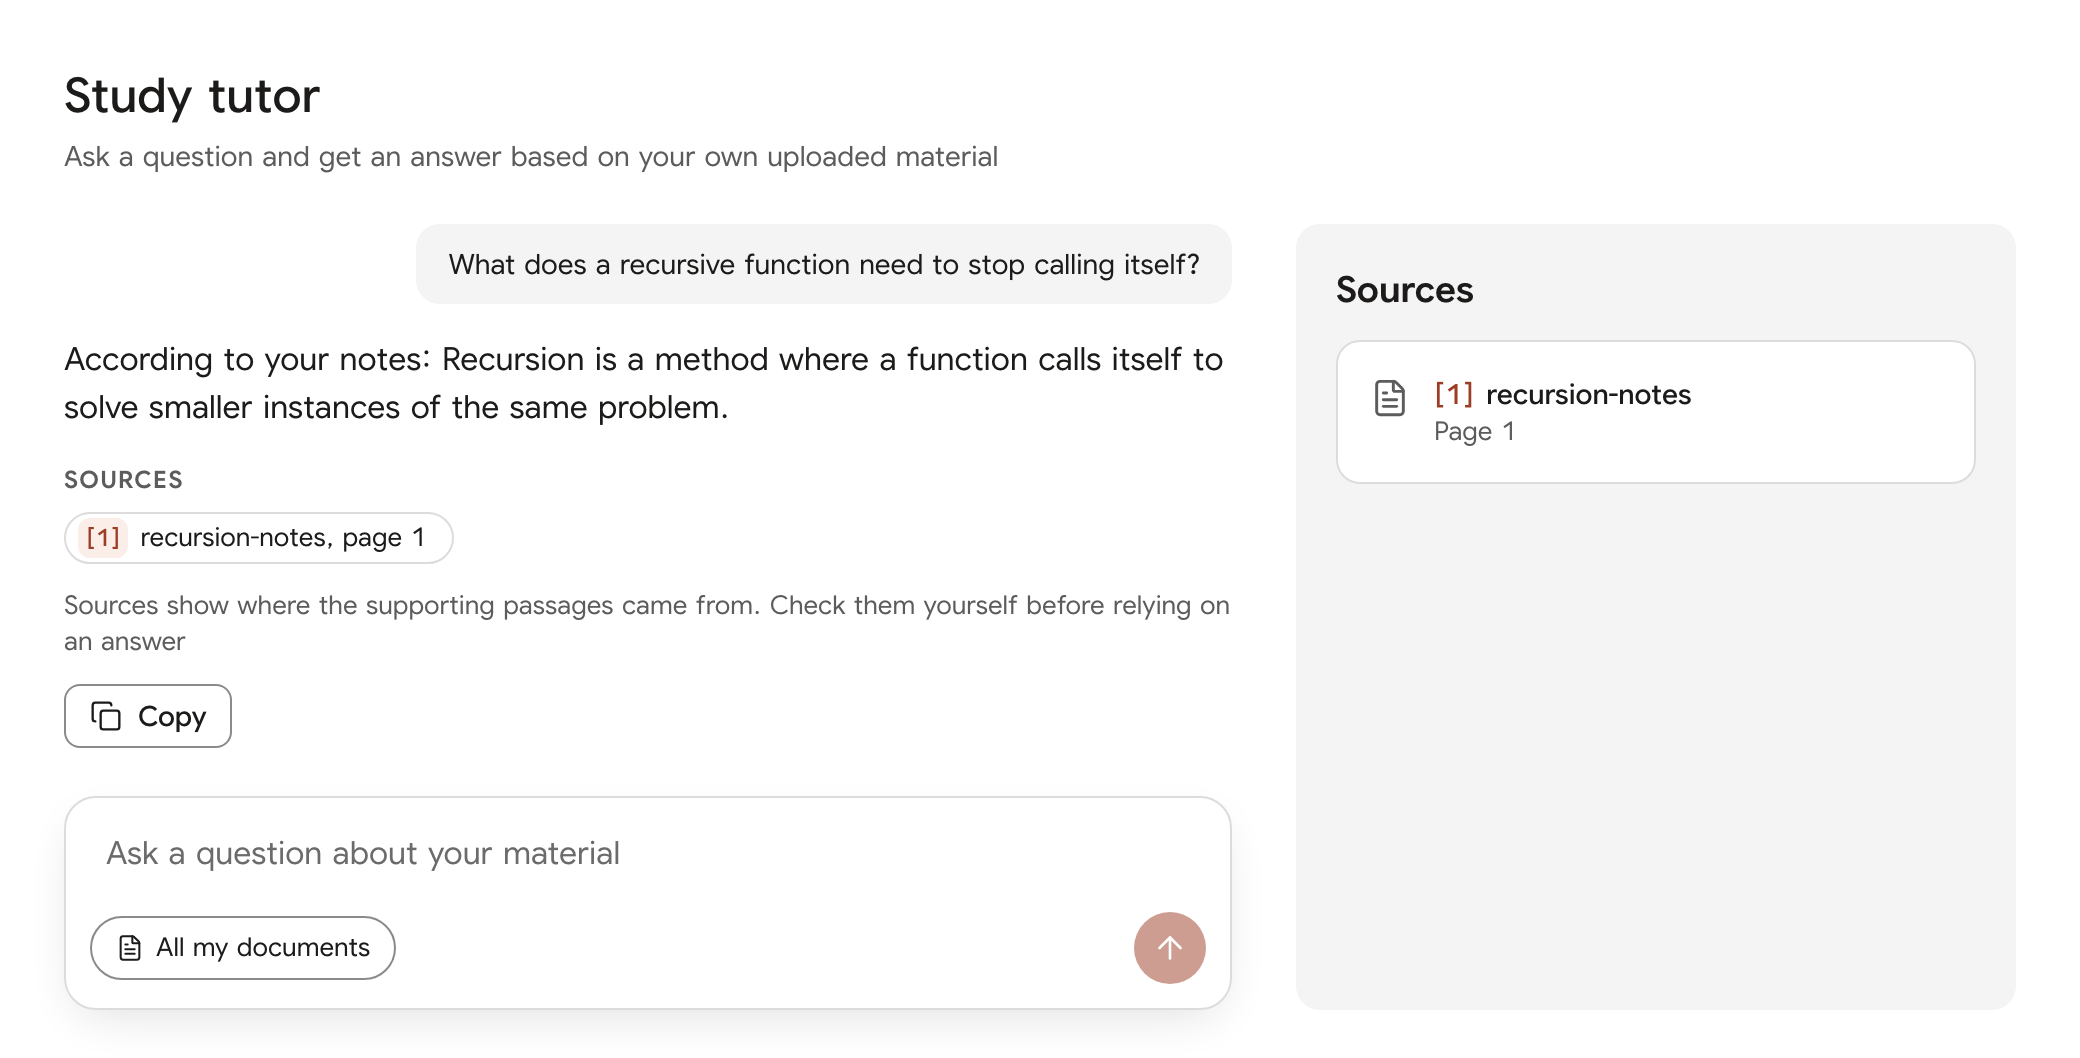
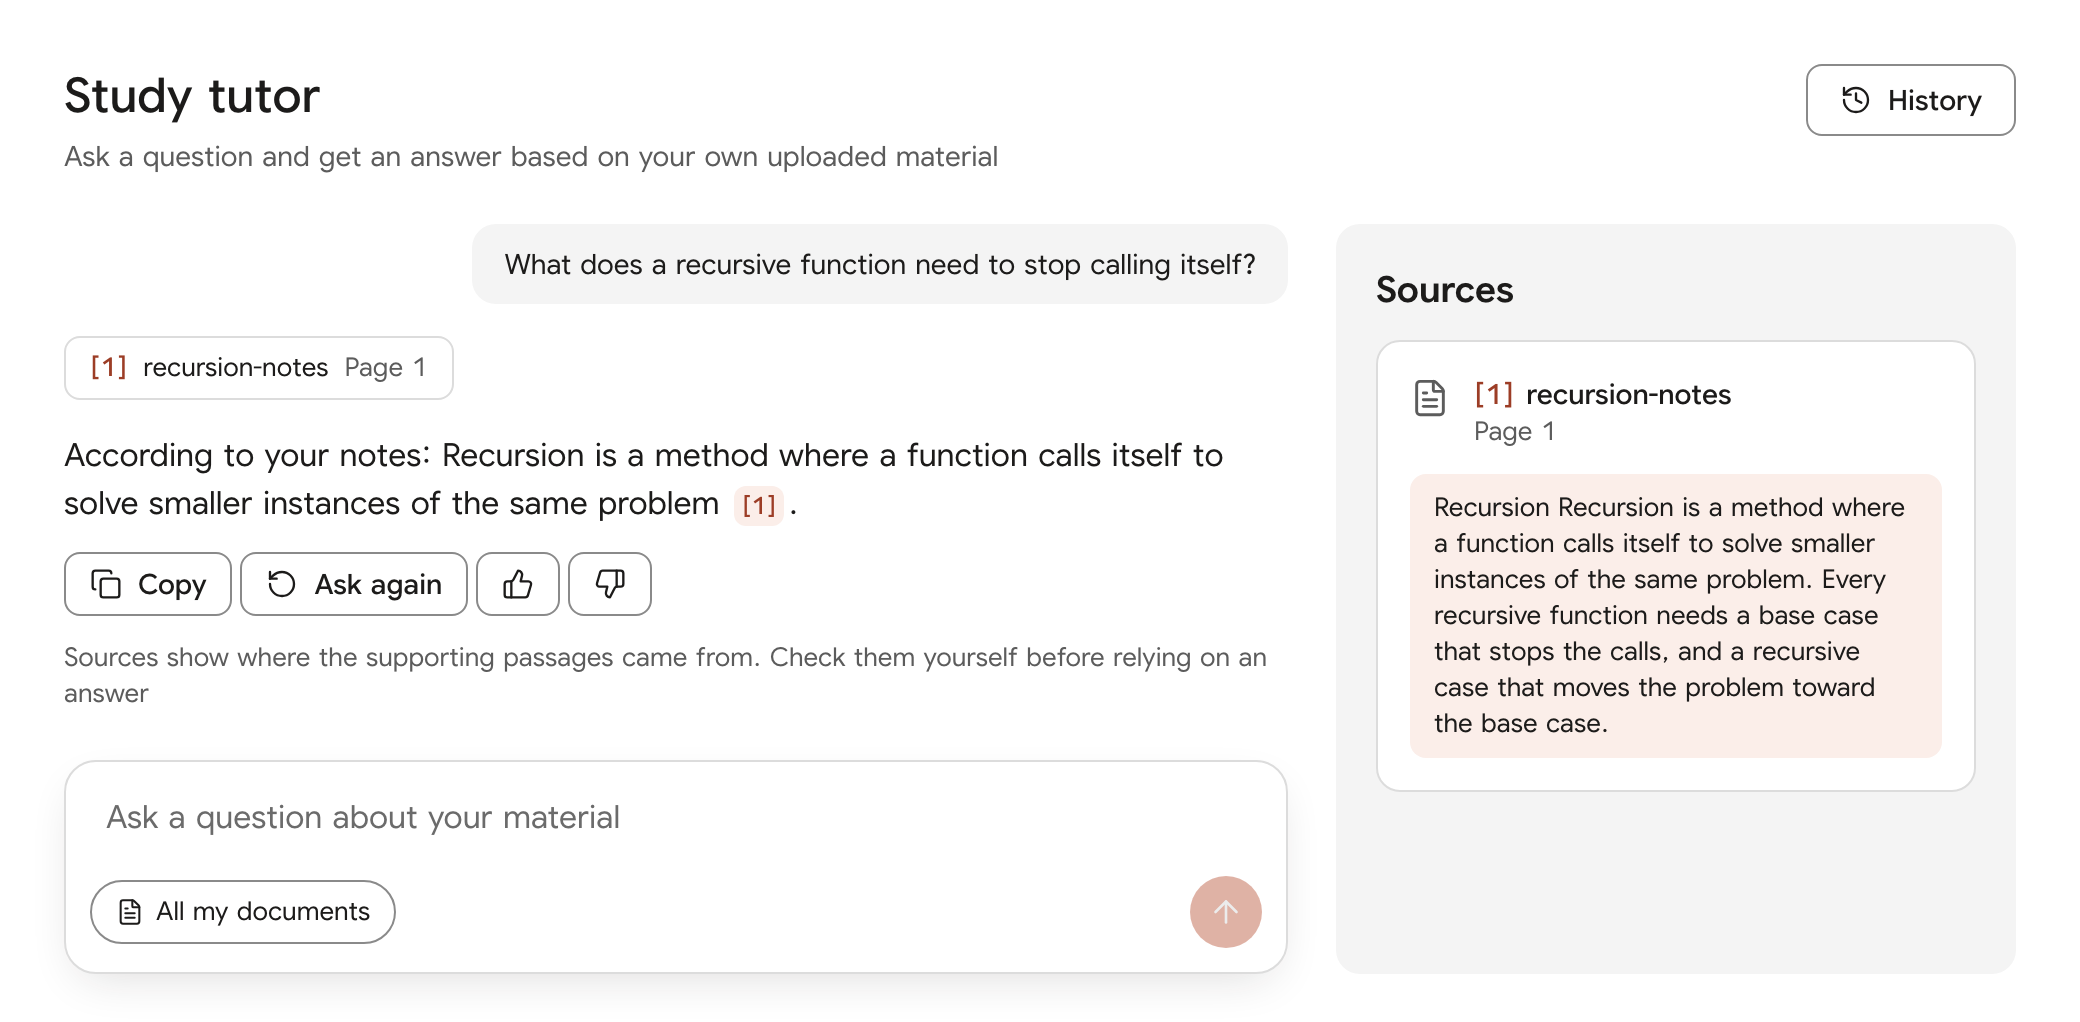
feat(frontend): mark chat history, follow-ups and streaming live; update tutor e2e and screenshots
The registry lists the three chat features as live and the tutor landing copy now says to ask
follow-up questions and see sources before the answer. The core-flow e2e covers new chat, a streamed
answer with a citation, opening the source, a follow-up, reload, rename and delete. The tutor
landing screenshots are recaptured from the new screen.

diff --git a/frontend/e2e/core-flow.spec.ts b/frontend/e2e/core-flow.spec.ts
@@ -58,13 +58,64 @@ test("uploading a PDF indexes it and rejects non-PDFs", async () => {
   await expect(row.getByText("2 pages")).toBeVisible();
 });
 
-test("the tutor answers with sources and admits when material has no answer", async () => {
-  await page.getByRole("link", { name: "Study tutor" }).first().click();
-  await page.getByLabel("Your question").fill("What does a recursive function need to stop calling itself?");
-  await page.getByRole("button", { name: "Send question" }).click();
-  await expect(page.getByText("According to your notes")).toBeVisible();
-  await expect(page.getByText("recursion-notes, page 1")).toBeVisible();
+const FIRST_QUESTION = "What does a recursive function need to stop calling itself?";
 
+async function openHistory() {
+  // The history panel sits inline from 1536px; below that it opens as a drawer
+  const drawer = page.getByRole("dialog", { name: "History" });
+  if (!(await drawer.isVisible())) await page.getByRole("button", { name: "History" }).click();
+  return drawer;
+}
+
+test("a new chat streams an answer with a citation that opens the source", async () => {
+  await page.getByRole("link", { name: "Study tutor" }).first().click();
+  await page.getByLabel("Your question").fill(FIRST_QUESTION);
+  await page.getByRole("button", { name: "Send question" }).click();
+
+  // Sources arrive first, then the text; the address follows the saved chat
+  const sources = page.getByRole("list", { name: "Sources for this answer" });
+  await expect(sources.getByRole("button", { name: /recursion-notes/ })).toBeVisible();
+  await expect(page.getByText("According to your notes")).toBeVisible();
+  await expect(page.getByRole("button", { name: "Copy answer" })).toBeVisible(); // the answer has finished
+  await expect(page).toHaveURL(/\/tutor\/[0-9a-f-]{36}$/);
+
+  // Opening the citation shows the passage in the sources panel
+  await page.getByRole("button", { name: /^Source 1/ }).first().click();
+  const panel = page.getByRole("complementary", { name: "Sources" });
+  await expect(panel.getByText("recursion-notes")).toBeVisible();
+  await expect(panel.getByText("Page 1")).toBeVisible();
+});
+
+test("a follow-up shows what was searched, and the chat survives a reload, rename and delete", async () => {
+  await page.getByLabel("Your question").fill("Why does it need that?");
+  await page.getByRole("button", { name: "Send question" }).click();
+  await expect(page.getByText(/^Searched your material for:/)).toBeVisible();
+  await expect(page.getByRole("button", { name: "Copy answer" })).toHaveCount(2);
+
+  await page.reload();
+  await expect(page.locator("main ol p").filter({ hasText: FIRST_QUESTION })).toBeVisible(); // the saved question, not the history link
+  await expect(page.getByText(/^Searched your material for:/)).toBeVisible();
+  await expect(page.getByRole("list", { name: "Sources for this answer" }).first()).toBeVisible();
+  await expect(page.getByText("According to your notes").first()).toBeVisible();
+
+  let drawer = await openHistory();
+  await drawer.getByRole("button", { name: /^Options for / }).click();
+  await drawer.getByRole("menuitem", { name: "Rename" }).click();
+  await drawer.getByRole("textbox", { name: "Chat title" }).fill("Recursion revision");
+  await page.keyboard.press("Enter");
+  await expect(drawer.getByRole("link", { name: "Recursion revision" })).toBeVisible();
+
+  await drawer.getByRole("button", { name: "Options for Recursion revision" }).click();
+  await drawer.getByRole("menuitem", { name: "Delete" }).click();
+  await page.getByRole("button", { name: "Delete chat" }).click();
+  await expect(page).toHaveURL(/\/tutor$/);
+  drawer = await openHistory();
+  await expect(drawer.getByRole("link", { name: "Recursion revision" })).toHaveCount(0);
+  await page.keyboard.press("Escape");
+});
+
+test("a question the material cannot answer is declined in a new chat", async () => {
+  await page.goto("/tutor");
   await page.getByLabel("Your question").fill("How do volcanoes erupt in Iceland?");
   await page.getByRole("button", { name: "Send question" }).click();
   await expect(page.getByText("Not found in your material")).toBeVisible();

diff --git a/frontend/lib/features.ts b/frontend/lib/features.ts
@@ -43,8 +43,8 @@ export const FEATURES: Feature[] = [
     landing: {
       overline: "Study tutor",
       title: "Ask a question and check the source",
-      body: "Answers are written only from the passages found in your own uploads. Every answer lists the document and page it came from, and when your notes do not cover a question it says so instead of guessing.",
-      bullets: ["Answers cite the document and page", "Says “Not found in your material” when unsure", "Searches only your own files"],
+      body: "Answers are written only from the passages found in your own uploads. The sources appear before the answer, every answer lists the document and page it came from, and when your notes do not cover a question it says so instead of guessing.",
+      bullets: ["Ask follow-up questions, see sources before the answer", "Says “Not found in your material” when unsure", "Chats are saved, and you can stop an answer at any time"],
     },
   },
   {
@@ -89,8 +89,10 @@ export const FEATURES: Feature[] = [
       bullets: ["Hit rate, MRR and abstention accuracy", "Per-question drill-down", "Dense versus hybrid retrieval compared"],
     },
   },
-  { id: "chat-history", status: "planned", label: "Chat history and follow-up questions", roadmap: "Keep conversations and ask follow-up questions in the study tutor" },
-  { id: "streaming", status: "planned", label: "Streamed answers", roadmap: "Watch the answer appear with its sources shown first" },
+  // Part of the study tutor: no nav entry or landing section of their own, but recorded as live
+  { id: "chat-history", status: "live", label: "Chat history" },
+  { id: "follow-ups", status: "live", label: "Follow-up questions" },
+  { id: "streaming", status: "live", label: "Streamed answers" },
   { id: "diagnostic", status: "planned", label: "Diagnostic test", roadmap: "A short starting test that sets your first topic levels" },
   { id: "ingestion", status: "planned", label: "More file types", roadmap: "Upload DOCX files and YouTube lectures, not only PDFs" },
   { id: "teacher-style", status: "planned", label: "Teacher-style mode", roadmap: "Answers in the wording and structure your teacher uses" },

diff --git a/frontend/e2e/screenshots.spec.ts b/frontend/e2e/screenshots.spec.ts
@@ -55,7 +55,7 @@ test("capture landing images and sweep every screen", async ({ browser }) => {
   await page.getByRole("link", { name: "Study tutor" }).first().click();
   await page.getByLabel("Your question").fill("What does a recursive function need to stop calling itself?");
   await page.getByRole("button", { name: "Send question" }).click();
-  await page.getByText("recursion-notes, page 1").waitFor();
+  await page.getByRole("button", { name: "Copy answer" }).waitFor(); // the answer has finished
   // Crop to the conversation, sources panel and composer (no empty space below)
   const mainBox = await page.locator("main:visible").boundingBox();
   const composerBox = await page.locator("form").filter({ has: page.getByLabel("Your question") }).boundingBox();
@@ -65,6 +65,7 @@ test("capture landing images and sweep every screen", async ({ browser }) => {
     clip: { x: mainBox.x, y: mainBox.y, width: mainBox.width, height: composerBox.y + composerBox.height - mainBox.y + 24 },
   });
 
+  await page.goto("/tutor"); // a new chat: a second question in the same chat would be treated as a follow-up
   await page.getByLabel("Your question").fill("How do volcanoes erupt in Iceland?");
   await page.getByRole("button", { name: "Send question" }).click();
   await page.getByRole("heading", { name: "Not found in your material" }).waitFor();

diff --git a/frontend/tests/features.test.ts b/frontend/tests/features.test.ts
@@ -28,6 +28,20 @@ describe("feature registry", () => {
     }
   });
 
+  it("lists chat history, follow-up questions and streamed answers as live, not on the roadmap", () => {
+    const live = liveFeatures().map((f) => f.id);
+    expect(live).toEqual(expect.arrayContaining(["chat-history", "follow-ups", "streaming"]));
+    const roadmap = plannedFeatures().map((f) => f.id);
+    for (const id of ["chat-history", "follow-ups", "streaming"]) expect(roadmap).not.toContain(id);
+  });
+
+  it("describes the tutor with follow-ups and sources shown before the answer", () => {
+    const tutor = FEATURES.find((f) => f.id === "tutor")!;
+    const copy = [tutor.landing!.body, ...tutor.landing!.bullets].join(" ").toLowerCase();
+    expect(copy).toContain("follow-up");
+    expect(copy).toContain("before the answer");
+  });
+
   it("writes headings and labels without a trailing full stop", () => {
     for (const feature of FEATURES) {
       expect(feature.label.endsWith(".")).toBe(false);
